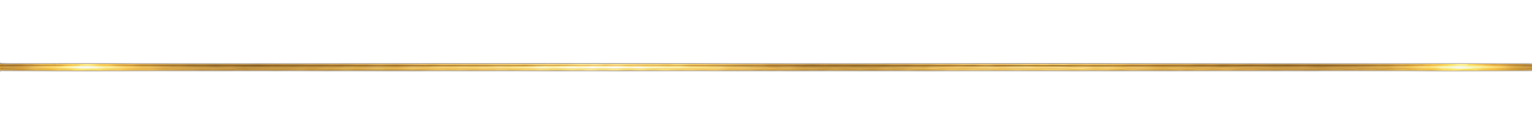
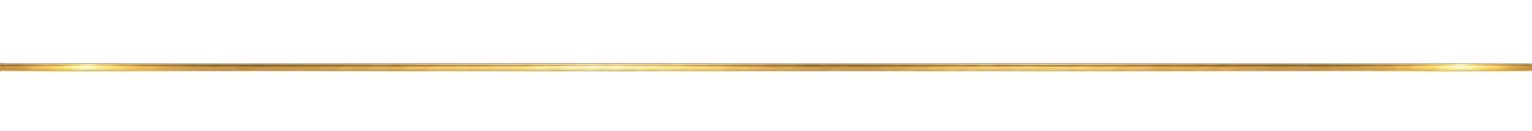
structure

Changed region(s): [[0.0, 0.4275, 1.0, 0.5496]]

diff --git a/loving_diary_app_improved.html b/loving_diary_app_improved.html
@@ -23,6 +23,7 @@
       --inner-lit: inset 0 1px 0 rgba(255, 255, 255, 0.92), inset 0 -22px 48px rgba(255, 255, 255, 0.18);
       --radius-a: 26px 20px 28px 22px;
       --radius-b: 18px 26px 20px 24px;
+      --bottom-nav-safe-area: 200px;
     }
     body.dark-theme {
       --paper: #1f1b19;
@@ -377,7 +378,8 @@
       max-width: 760px;
       margin-left: auto;
       margin-right: auto;
-      padding: 0 24px 160px;
+      margin-top: -45px;
+      padding: 0 24px var(--bottom-nav-safe-area);
       color: #4a403c;
     }
     .app,
@@ -389,6 +391,14 @@
     body.dark-theme main.app {
       color: var(--text);
     }
+    @media (max-width: 768px) {
+      :root {
+        --bottom-nav-safe-area: 225px;
+      }
+      main.app {
+        margin-top: -25px;
+      }
+    }
     @media (max-width: 640px) {
       main.app {
         padding-left: max(16px, env(safe-area-inset-left));
@@ -398,6 +408,15 @@
     section.page {
       position: relative;
       z-index: 2;
+    }
+    /* Подъём контента вкладки «Сегодня» от «Фразы дня» вниз; hero вне этой секции — не смещается */
+    #todayPage.page {
+      margin-top: -24px;
+    }
+    /* «История» и «Календарь»: ближе к вводной части экрана, одна вертикальная логика для обеих вкладок */
+    #historyPage.page,
+    #futurePage.page {
+      margin-top: -32px;
     }
     .flower-bottom-bg,
     .flower-bottom-new {
@@ -529,11 +548,11 @@
       display: inline-flex;
       align-items: center;
       justify-content: flex-start;
-      gap: 14px;
-      padding: 12px 22px;
+      gap: 8px;
+      padding: 7px 11px;
       margin: 0 0 28px 0;
       width: fit-content;
-      max-width: 520px;
+      max-width: 424px;
       box-sizing: border-box;
       border-radius: 999px;
       background: rgba(255, 255, 255, 0.76);
@@ -568,9 +587,9 @@
     .daily-pulse img,
     .daily-pulse .daily-pulse__heart,
     .daily-pulse .heart-icon {
-      width: 64px !important;
-      height: 64px !important;
-      min-width: 64px !important;
+      width: 38px !important;
+      height: 38px !important;
+      min-width: 38px !important;
       flex-shrink: 0;
       object-fit: contain;
       opacity: 1 !important;
@@ -581,22 +600,22 @@
       filter:
         brightness(0) saturate(100%) invert(26%) sepia(52%) saturate(2400%) hue-rotate(325deg) brightness(0.88) contrast(1.14)
         saturate(1.35) contrast(1.12)
-        drop-shadow(0 0 18px rgba(185, 74, 72, 0.45))
-        drop-shadow(0 10px 28px rgba(185, 74, 72, 0.22));
+        drop-shadow(0 0 11px rgba(185, 74, 72, 0.38))
+        drop-shadow(0 6px 15px rgba(185, 74, 72, 0.17));
     }
     body.dark-theme .daily-pulse img,
     body.dark-theme .daily-pulse .daily-pulse__heart {
       filter:
         brightness(0) saturate(100%) invert(30%) sepia(48%) saturate(2000%) hue-rotate(322deg) brightness(0.95) contrast(1.1)
         saturate(1.3) contrast(1.1)
-        drop-shadow(0 0 20px rgba(185, 74, 72, 0.42))
-        drop-shadow(0 10px 26px rgba(185, 74, 72, 0.2));
+        drop-shadow(0 0 12px rgba(185, 74, 72, 0.36))
+        drop-shadow(0 6px 17px rgba(185, 74, 72, 0.15));
     }
     .daily-pulse__text,
     .daily-pulse-text {
       margin: 0;
       font-family: "Manrope", sans-serif;
-      font-size: 18px;
+      font-size: calc(18px * 0.875 * 1.05);
       font-weight: 500;
       line-height: 1.35;
       letter-spacing: 0.01em;
@@ -1944,7 +1963,7 @@
         <div class="header-label">Личный дневник чувств</div>
         <h1 class="hero-title">Делай любя,<br />люби себя</h1>
         <div class="daily-pulse">
-          <img src="./images/icon-heart.png" alt="" class="daily-pulse__heart" width="64" height="64" decoding="async" />
+          <img src="./images/icon-heart.png" alt="" class="daily-pulse__heart" width="38" height="38" decoding="async" />
           <p id="emotionalPulseText" class="daily-pulse__text daily-pulse-text" aria-live="polite"></p>
         </div>
       </div>
